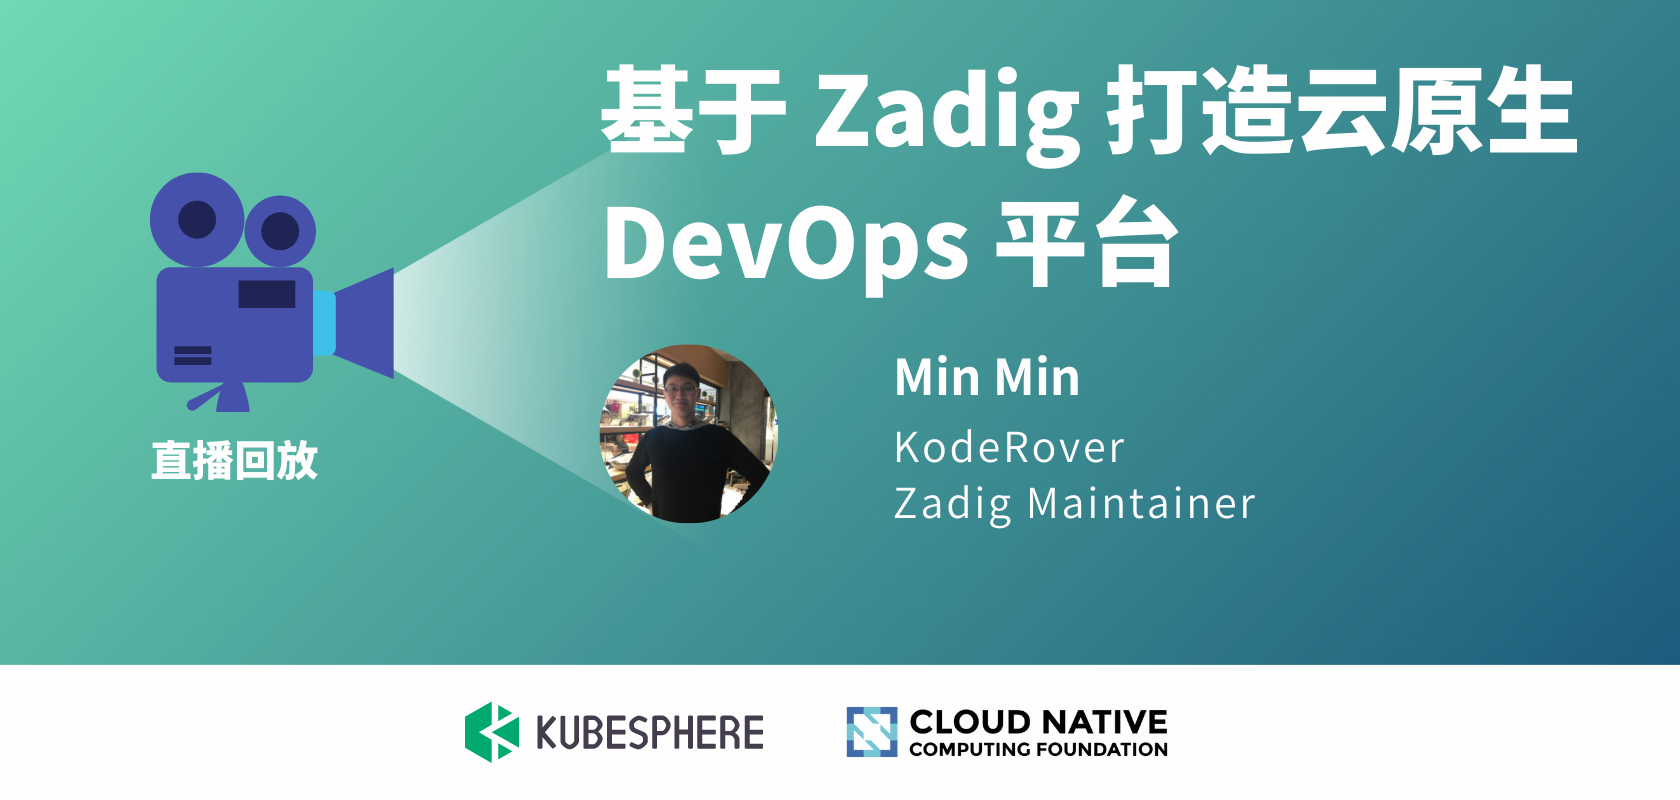
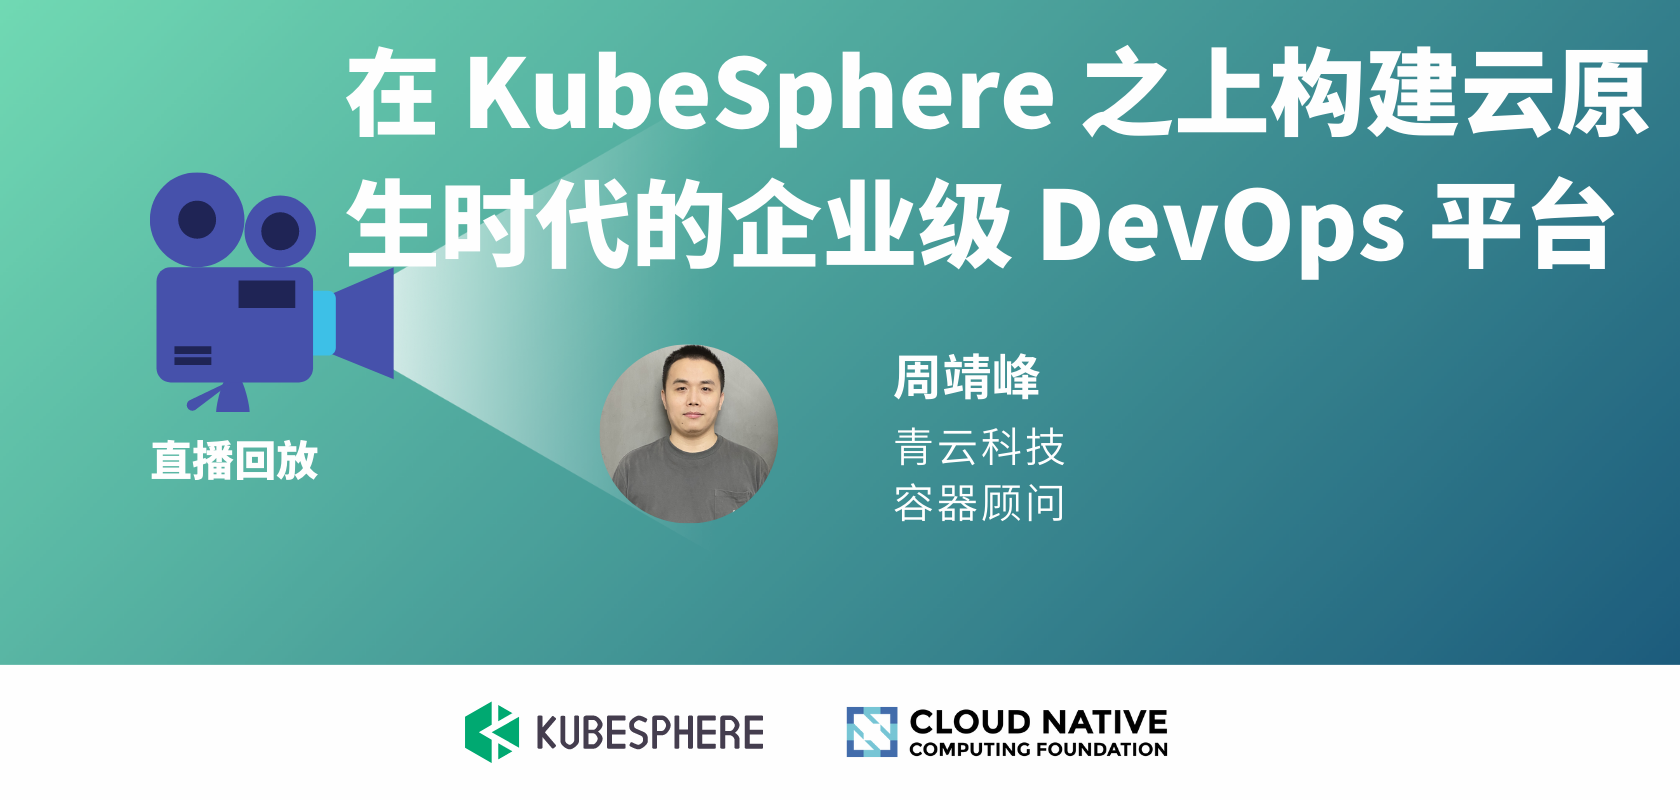
update the page of live

diff --git a/content/zh/live/zhijianglab-kubesphere.md b/content/zh/live/zhijianglab-kubesphere.md
@@ -1,0 +1,69 @@
+---
+title: KubeSphere 社区走进企业第二站 —— 之江实验室
+description: 为了帮助企业进行容器化全面落地，享受到云原生带来的技术红利，杭州站社区用户委员会决定走进不同的企业进行交流，与目标企业团队在产品、技术与社区合作等方面进行深入探讨和交流。
+keywords:  KubeSphere, Kubernetes, KubeKey, DevOps
+css: scss/live-detail.scss
+
+section1:
+  snapshot: 
+  videoUrl: //player.bilibili.com/player.html?aid=600023275&bvid=BV1aB4y1474S&cid=748306837&page=1&high_quality=1
+  type: iframe
+  time: 2022-06-08 
+  timeIcon: /images/live/clock.svg
+  base: 杭州 + 线上
+  baseIcon: /images/live/base.svg
+---
+
+为了帮助企业进行容器化全面落地，享受到云原生带来的技术红利，杭州站社区用户委员会决定走进不同的企业进行交流，与目标企业团队在产品、技术与社区合作等方面进行深入探讨和交流，并于 2022 年 4 月 16 日正式启动了第一站。
+
+2022 年 6 月 8 日，由 KubeSphere 杭州用户委员会组织发起了社区走进企业交流的第二站，走进了之江智慧交通中心基础设施团队所在的“之江实验室”，与对方的技术团队在产品、技术与社区合作等话题上进行了深入交流与探讨。会上，KubeSphere 产品负责人于爽详细介绍了 KubeSphere 产品的概念、功能、当前的发展情况、动态以及未来的规划。在双方团队交流中，之江智慧交通中心基础设施团队负责人崔博士提出了关于多种不同 GPU 设备结合 device plugin 做统一化管理的最佳实践，还探讨了基于 KubeEdge 边缘计算场景通过 socket 协议能够传输的数据格式和数据量。
+
+![](https://pek3b.qingstor.com/kubesphere-community/images/zhijianglab-kubesphere-1.jpeg)
+
+![](https://pek3b.qingstor.com/kubesphere-community/images/zhijianglab-kubesphere-2.jpeg)
+
+在双方线上线下互动交流过程中，团队负责人表达了实验室研发团队对 KubeSphere 产品的高度认可，线上的同学也提出了非常多的功能优化点。
+
+此次交流后，双方也在开源社区的合作共建上达成了高度共识，KubeSphere 社区在会后也已经邀请之江实验室团队核心成员加入了贡献者大家庭，非常期待之江实验室深度参与 KubeSphere 社区。
+
+![](https://pek3b.qingstor.com/kubesphere-community/images/zhijianglab-kubesphere-3.jpeg)
+
+KubeSphere 开源项目发起人周小四说：“保持 100% 的开源与开放是 KubeSphere 团队秉持的理念，通过开放的社区治理与协同开发，能够让更多的企业参与进来，更高效地开发和维护好一款在全球流行的开源软件，企业不用再重复造轮子”。
+
+秉持这个理念，在 KubeSphere 团队的支持下，KubeSphere 社区杭州用户委员会已成功组织了两次走进企业交流，并取得了不错的交流效果。目前，杭州站已将交流经验形成方案，社区期待接下来其他城市站也能开启这种交流。
+
+## 欢迎与 KubeSphere 社区交流
+
+如果您企业打算拥抱云原生，但苦于没有落地经验，欢迎与我们交流；
+
+如果您企业打算或已经在了解 KubeSphere，但还没有头绪，欢迎与我们交流；
+
+如果您企业已经在测试 KubeSphere，计划上生产，但遇到问题较多，欢迎与我们交流。
+
+请联系社区小助手小 kk：kubesphere（微信号），与我们取得联系，推进交流事宜。
+
+社区期待走进更多企业，为更多的企业赋能，也非常欢迎更多的企业加入社区开源共建。
+
+## 关于富数科技
+
+之江实验室成立于 2017 年 9 月 6 日，坐落于杭州城西科创大走廊核心地带，是浙江省委、省政府深入实施创新驱动发展战略、探索新型举国体制浙江路径的重大科技创新平台。
+
+实验室以“打造国家战略科技力量”为目标，由浙江省人民政府主导举办，实行“一体两核多点”的运行架构，主攻智能感知、人工智能、智能网络、智能计算和智能系统五大科研方向，重点开展前沿基础研究、关键技术攻关和核心系统研发，建设大型科技基础设施和重大科研平台，抢占支撑未来智慧社会发展的智能计算战略高点。
+
+## 关于 KubeSphere
+
+KubeSphere （ https://kubesphere.io）是在 Kubernetes 之上构建的开源容器混合云，提供全栈的 IT 自动化运维的能力，简化企业的 DevOps 工作流。
+
+KubeSphere 已被 Aqara 智能家居、爱立信、本来生活、东软、华云、新浪、三一重工、华夏银行、四川航空、国药集团、微众银行、杭州数跑科技、紫金保险、去哪儿网、中通、中国人民银行、中国银行、中国人保寿险、中国太平保险、中国移动、中国联通、中国电信、天翼云、中移金科、Radore、ZaloPay 等海内外数千家企业采用。KubeSphere 提供了开发者友好的向导式操作界面和丰富的企业级功能，包括 Kubernetes 多云与多集群管理、DevOps (CI/CD)、应用生命周期管理、边缘计算、微服务治理 (Service Mesh)、多租户管理、可观测性、存储与网络管理、GPU support 等功能，帮助企业快速构建一个强大和功能丰富的容器云平台。
+
+
+
+ ✨ GitHub： https://github.com/kubesphere
+
+ 💻 官网（中国站）： https://kubesphere.com.cn
+
+ 👨💻 微信群：请搜索添加群助手微信号 kubesphere
+
+ 🔗 企业服务： https://kubesphere.cloud
+
+

diff --git a/content/zh/live/_index.md b/content/zh/live/_index.md
@@ -10,14 +10,14 @@ section1:
 
 section2:
   image: /images/live/cloudnative-live-banner.png
-  url: ./zadig0721-live/
+  url: ./devops0728-live/
 
   notice:
-    title: 在 KubeSphere 之上构建云原生时代的企业级 DevOps 平台
+    title: RadonDB MySQL K8s
     tag: 预告
-    time: 2022 年 07 月 28 日晚 8 点
+    time: 2022 年 08 月 04 日晚 8 点
     base: 线上
-    url: ./devops0728-live/
+    url: ./radondb0804-live/
 
   over:
     title: 云原生 Meetup 广州站
@@ -26,6 +26,13 @@ section2:
 
 section3:
   videos:
+    - title: 在 KubeSphere 之上构建云原生时代的企业级 DevOps 平台
+      link: ./devops0728-live/
+      snapshot: https://pek3b.qingstor.com/kubesphere-community/images/devops0728-live-cover.png
+      type: iframe
+      createTime: 2022.07.28
+      group: 直播回放
+
     - title: 基于 Zadig 打造云原生 DevOps 平台
       link: ./zadig0721-live/
       snapshot: https://pek3b.qingstor.com/kubesphere-community/images/zadig0721-live-cover.png
@@ -102,6 +109,13 @@ section3:
       type: iframe
       createTime: 2022.06.09
       group: 直播回放
+
+    - title: KubeSphere 社区走进企业第二站 —— 之江实验室
+      link: ./zhijianglab-kubesphere/
+      snapshot: https://pek3b.qingstor.com/kubesphere-community/images/zhijianglab-kubesphere-cover.png
+      type: iframe
+      createTime: 2022.06.08
+      group: 走进企业
 
     - title: 基于 KubeSphere 和 Thanos 构建可持久化存储的多集群监控系统
       link: ./jinaai0602-live/

diff --git a/content/zh/live/radondb0804-live.md b/content/zh/live/radondb0804-live.md
@@ -1,0 +1,35 @@
+---
+title: RadonDB MySQL K8s
+description: 本次分享将从 KubeSphere 出发，探寻一个适合企业的 DevOps 平台打造方式。
+keywords: KubeSphere, Kubernetes, RadonDB, MySQL
+css: scss/live-detail.scss
+
+section1:
+  snapshot: 
+  videoUrl: 
+  type: iframe
+  time: 2022-08-04 20:00-21:00
+  timeIcon: /images/live/clock.svg
+  base: 线上
+  baseIcon: /images/live/base.svg
+---
+## 分享内容简介
+
+自从 K8s 推出 Statefulset 特性之后，K8s 也能支撑像数据库这样有状态的应用。本次分享主题是 MySQL 在 K8s 平台的运用，介绍数据库平台到容器化的发展历程，MySQL 容器化特性、基础概概念、架构以及运行原理。
+
+## 讲师简介
+
+柯煜昌，青云科技，研发顾问级工程师，有多年数据库内核开发经验。
+
+## 分享大纲
+
+![](https://pek3b.qingstor.com/kubesphere-community/images/radondb0804-live.png)
+
+## 直播时间
+
+2022 年 08 月 04 日 20:00-21:00
+
+## 直播地址
+
+B 站  http://live.bilibili.com/22580654
+
